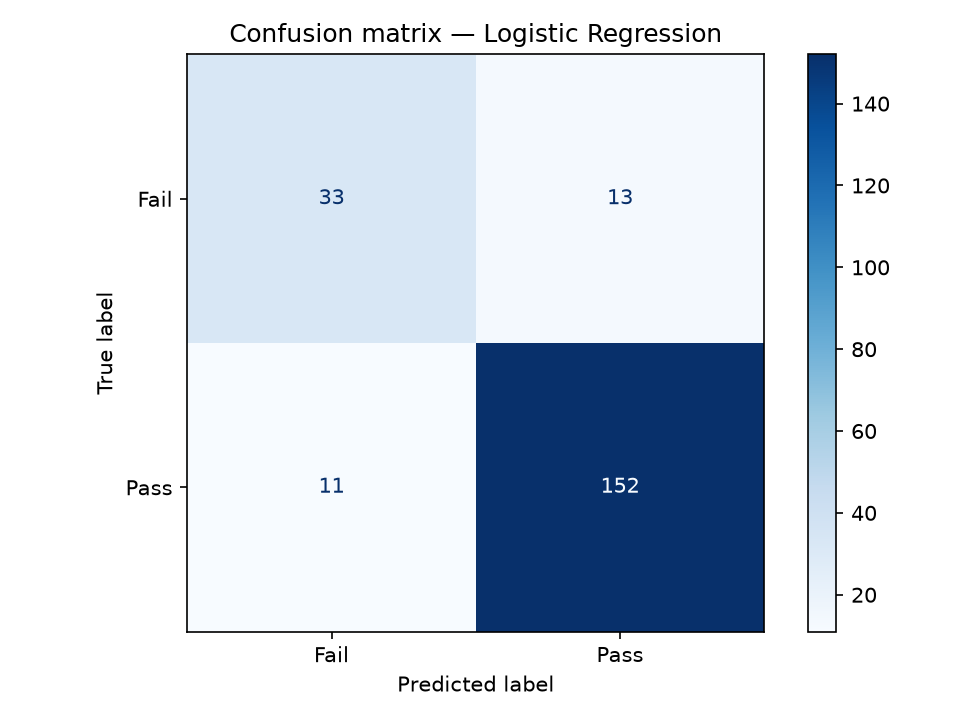
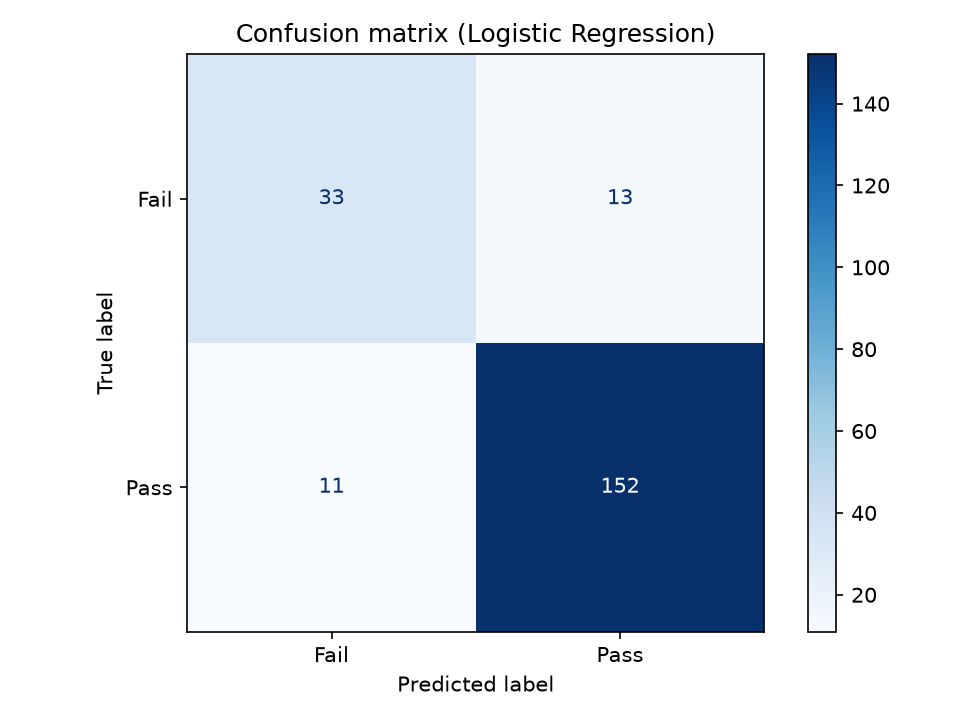
update screenshots and chart titles

Changed region(s): [[0.2188, 0.0306, 0.75, 0.0611]]

diff --git a/train.py b/train.py
@@ -103,7 +103,7 @@ if TASK == "classification":
     if binary:
         test["roc_auc"] = roc_auc_score(y_te == best.classes_[1], best.predict_proba(X_te)[:, 1])
     ConfusionMatrixDisplay.from_predictions(y_te, pred, cmap="Blues")
-    plt.title(f"Confusion matrix — {best_name}")
+    plt.title(f"Confusion matrix ({best_name})")
     plt.tight_layout(); plt.savefig("assets/confusion_matrix.png", dpi=150); plt.close()
 else:
     test["rmse"] = float(np.sqrt(mean_squared_error(y_te, pred)))
@@ -112,7 +112,7 @@ else:
     plt.scatter(y_te, pred, alpha=0.4)
     lo, hi = float(min(y_te.min(), pred.min())), float(max(y_te.max(), pred.max()))
     plt.plot([lo, hi], [lo, hi], "r--"); plt.xlabel("Actual"); plt.ylabel("Predicted")
-    plt.title(f"Predicted vs actual — {best_name}")
+    plt.title(f"Predicted vs actual ({best_name})")
     plt.tight_layout(); plt.savefig("assets/pred_vs_actual.png", dpi=150); plt.close()
 
 imp = permutation_importance(best, X_te, y_te, n_repeats=5, random_state=RANDOM_STATE)
